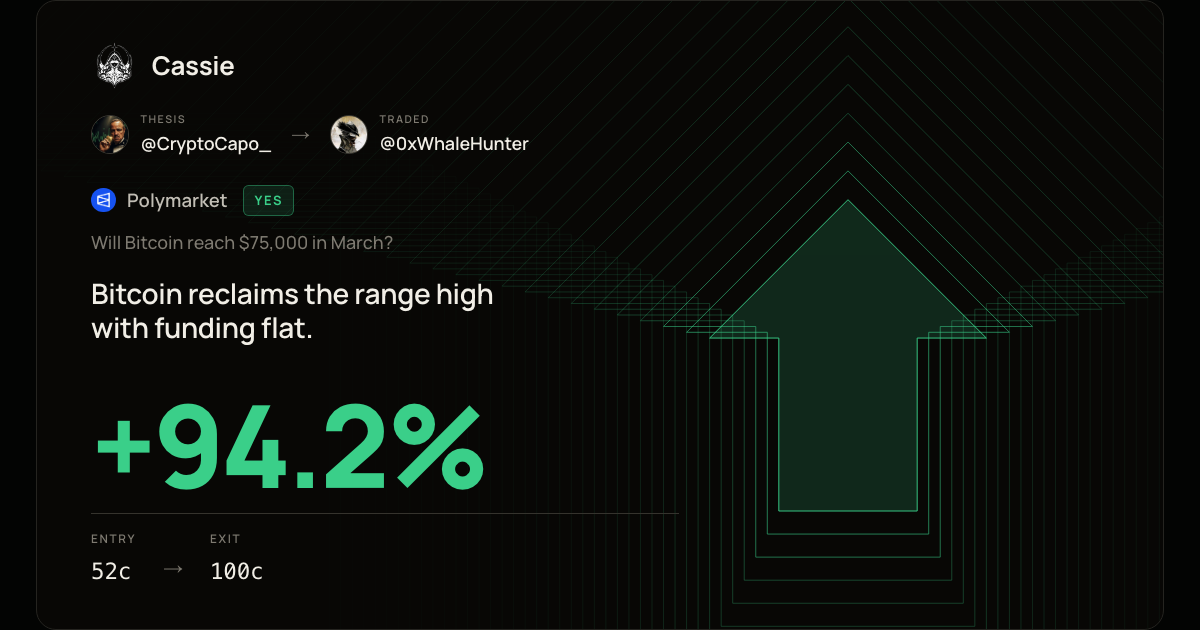
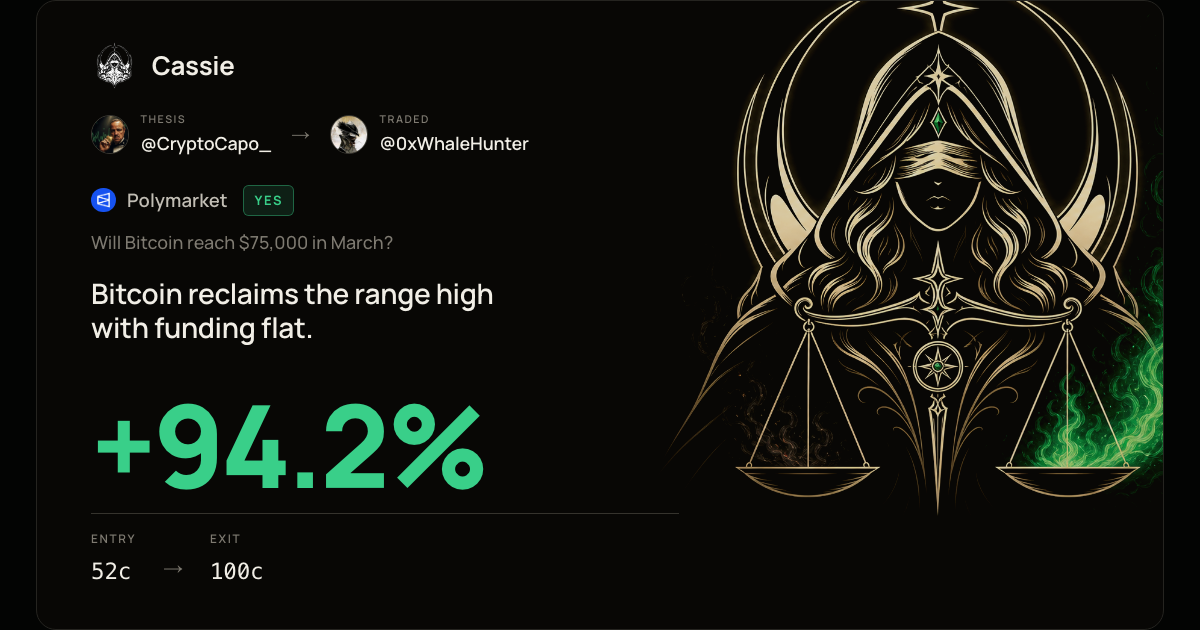
Try Cassie justice trade card art

diff --git a/apps/web/app/components/trade-card.tsx b/apps/web/app/components/trade-card.tsx
@@ -2,10 +2,10 @@ import styles from "./trade-card.module.css";
 
 /* --- Trade result / PnL share card ----------------------------
    Clean dark card. One sans family, a heavy result-colored figure
-   as the hero, and a result-colored direction emblem that bleeds
-   across the surface. Carries two people: who called it (thesis)
-   and who traded it. Fixed 1690x944 design, scaled fluidly via
-   container-query units (1cqw = 1% of the card width). */
+   as the hero, and a Cassie judgment figure that bleeds across
+   the surface. Carries two people: who called it (thesis) and who
+   traded it. Fixed 1690x944 design, scaled fluidly via container-
+   query units (1cqw = 1% of the card width). */
 
 type Person = {
   name: string;
@@ -78,7 +78,12 @@ export function TradeCard(props: TradeCardProps) {
       style={props.frameWidth ? { width: `${props.frameWidth}px`, maxWidth: "none" } : undefined}
     >
       <div className={styles.card}>
-        <DirectionEmblem positive={positive} />
+        <img
+          className={styles.judgment}
+          src="/cassie-justice-scales.png"
+          alt=""
+          aria-hidden="true"
+        />
 
         <div className={styles.content}>
           <header className={styles.head}>
@@ -155,43 +160,5 @@ function Avatar({ person }: { person: Person }) {
     <span className={styles.avatar} data-fallback="true" aria-hidden="true">
       {initial}
     </span>
-  );
-}
-
-/** Direction emblem: dense concentric, scaled copies of an arrow
-    silhouette form a topographic contour map that bleeds across
-    the card. Colored by result (green gain / red loss), points up
-    on a gain and flips down on a loss. */
-function DirectionEmblem({ positive }: { positive: boolean }) {
-  const arrow = "M50 14 L82 46 L66 46 L66 86 L34 86 L34 46 L18 46 Z";
-  const rings = Array.from({ length: 40 }, (_, i) => {
-    const scale = 0.3 + i * 0.05;
-    // exponential falloff: bright core, dissolving as it advances out
-    const opacity = Math.max(0.025, 0.95 * Math.pow(0.9, i));
-    const strokeWidth = i === 0 ? 1 : i < 3 ? 0.7 : 0.45;
-    return { scale, opacity, core: i === 0, strokeWidth };
-  });
-
-  return (
-    <svg
-      className={styles.emblem}
-      viewBox="0 0 100 100"
-      data-positive={positive}
-      aria-hidden="true"
-    >
-      {rings.map(({ scale, opacity, core, strokeWidth }, i) => (
-        <path
-          key={i}
-          d={arrow}
-          transform={`translate(50 54) scale(${scale.toFixed(3)}) translate(-50 -54)`}
-          fill={core ? "color-mix(in oklab, var(--tc-result) 18%, transparent)" : "none"}
-          stroke="var(--tc-result)"
-          strokeWidth={strokeWidth}
-          strokeLinejoin="round"
-          vectorEffect="non-scaling-stroke"
-          style={{ opacity }}
-        />
-      ))}
-    </svg>
   );
 }

diff --git a/apps/web/app/components/trade-card.module.css b/apps/web/app/components/trade-card.module.css
@@ -1,8 +1,7 @@
 /* --- Trade result / PnL share card ---------------------------
    Clean dark card. One sans family, a heavy result-colored figure
-   as the hero, and a single gilt direction emblem. Fixed 1690x944
-   design, every measure in cqw so it scales in proportion at any
-   width. */
+   as the hero, and a Cassie judgment figure. Fixed 1690x944 design,
+   every measure in cqw so it scales in proportion at any width. */
 
 .frame {
   --tc-bg: oklch(0.13 0.008 88);
@@ -262,19 +261,21 @@
   color: var(--tc-ink-mute);
 }
 
-/* -- direction emblem: full-bleed, contours reach the left edge */
-.emblem {
+/* -- Cassie judgment figure ----------------------------------- */
+.judgment {
   position: absolute;
   z-index: 1;
-  top: 50%;
-  left: 72%;
-  transform: translate(-50%, -50%);
-  width: 128cqw;
+  top: -4cqw;
+  right: -13cqw;
+  width: 90cqw;
   height: auto;
-  overflow: visible;
+  opacity: 0.84;
+  mix-blend-mode: screen;
+  filter: saturate(1.05) contrast(1.08);
   pointer-events: none;
+  user-select: none;
 }
 
-.frame[data-positive="false"] .emblem {
-  transform: translate(-50%, -50%) scaleY(-1);
+.frame[data-positive="false"] .judgment {
+  filter: hue-rotate(178deg) saturate(1.08) contrast(1.08);
 }
